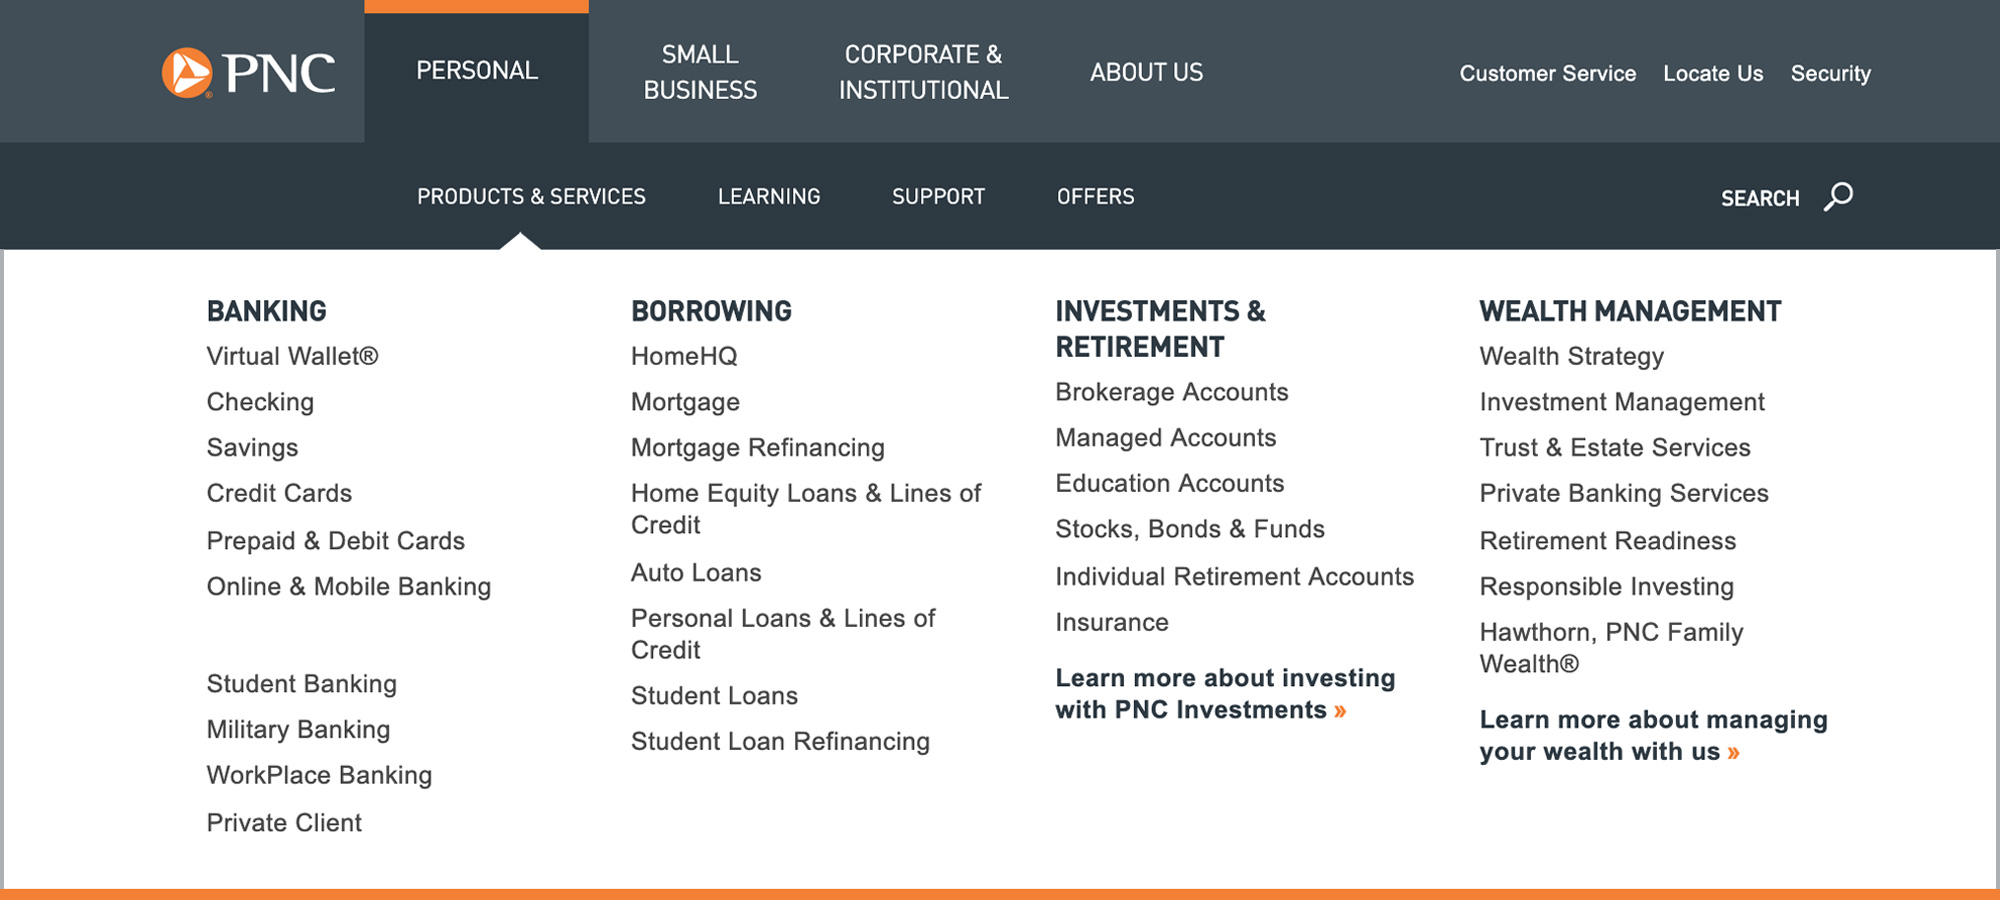
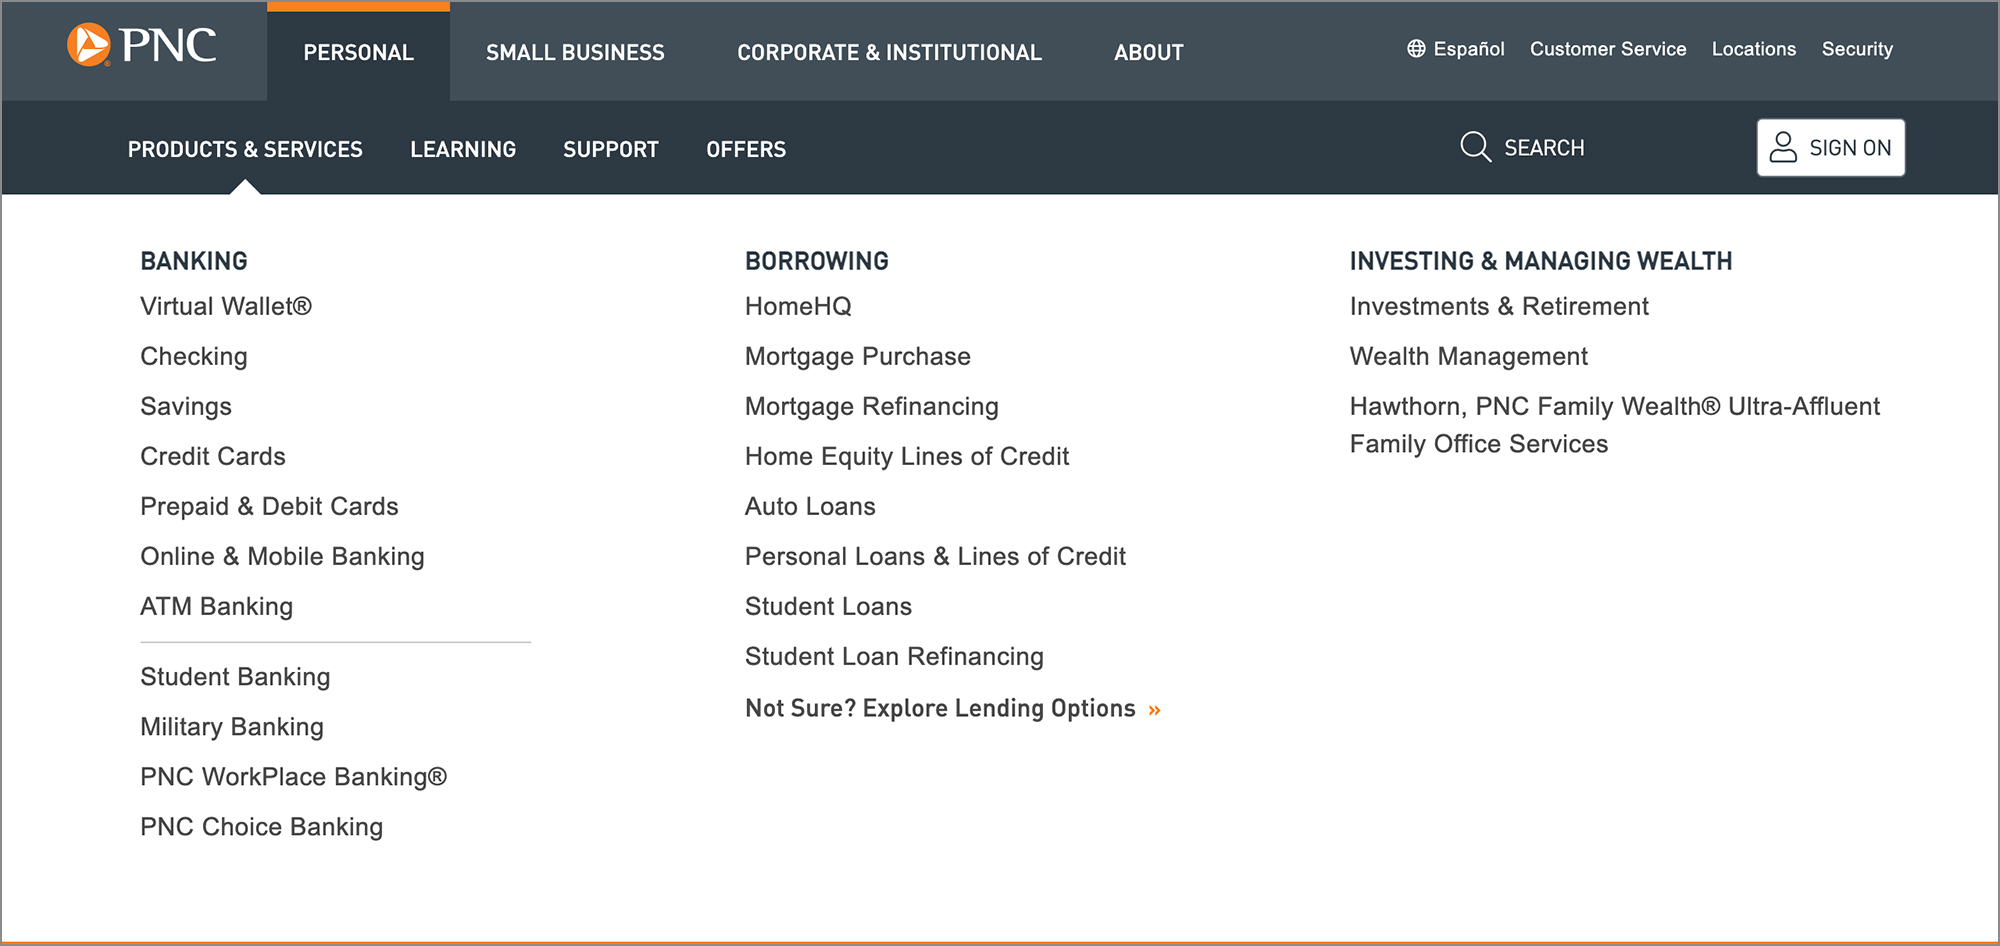
done

diff --git a/beta/pnc-nav-design.html b/beta/pnc-nav-design.html
@@ -255,10 +255,10 @@
 					</div><!-- /.row -->	
 
 					<div class="row inner">
-						<div class="col-sm-12 inner-top">
+						<div class="col-md-10 center-block inner-top-xs">
 							<figure>
 								<img src="assets/images/initial-menus.jpg" alt="">
-							   <p class="sm-caption">Show Smaller Sketches - Redo this image!!!!</p>
+							   <p class="sm-caption">Initial menu designs</p>
 
 							</figure>
 						</div><!-- /.col -->
@@ -276,11 +276,11 @@
 					</div><!-- /.row -->
 
 
-					<div class="row inner">
-							   <div class="col-md-12 center-block inner-top-xs">
+						<div class="row inner">
+							 <div class="col-md-10 col-md-offset-1">
 								<figure>
 								<img src="assets/images/navigation_box.jpg" alt="">
-								<p class="sm-caption">One of the first menu designs</p>
+								<p class="sm-caption">First dropdown menu used for testing</p>
 							</figure>
 						</div><!-- /.col -->
 					</div><!-- /.row -->	
@@ -300,7 +300,7 @@
 					<div class="row">
 						<div class="col-md-8 col-md-offset-2">
 								<h2>Usability Testing Results</h2>
-								<p>After agreeing on a rough design of the navigation, I built a prototype in Sketch and pulled it into InVision to make it interactive. The prototype was tested in different scenarios and tasks with users so I could make more informed design decisions..</p>
+								<p>After agreeing on a rough design of the navigation, I built a prototype in Sketch and pulled it into InVision to make it interactive. The prototype was tested in different scenarios and tasks with users so I could make more informed design decisions.</p>
 						</div><!-- /.col -->
 					</div><!-- /.row -->
 
@@ -311,7 +311,7 @@
 									<div class="price">
 										<span class="amount">70</span>
 									</div><!-- /.price -->
-									<p>people (non-customers) were asked to compare the usability of the previous menu with the latest design</p>
+									<p>people (non-customers) were asked to compare the usability of the previous menu with the prototype</p>
 								</header>
 								
 								
@@ -323,7 +323,7 @@
 									<div class="price">
 										<span class="amount">85%</span>
 									</div><!-- /.price -->
-									<p>participants found the new layout easier to scan for products and information faster</p>
+									<p>participants found the lighter layout easier to scan for products and information</p>
 								</header>
 								
 							</div><!-- /.plan -->
@@ -352,25 +352,25 @@
 			<div class="container">
 				<div class="row inner">
 						<div class="col-md-8 col-md-offset-2">
-							<h2>Iteration</h2>
-								<p>After the key takeaways from the Usability Test, I reworked a couple of the categories for the navigation. The example here focuses on the desktop experience because it is responsible for the majority of our visitors. Also, due to accessibility issues with our color orange, I had to rethink the links and colors. </p>
+							<h2>Iterations</h2>
+								<p>After the key takeaways from the Usability Test, I reworked a couple of the categories for the navigation. The example here focuses on the desktop experience because it is responsible for the majority of our visitors. Also, PNC's main brand color orange was not ADA compliant, I had to rethink our links and titles.</p>
 						</div><!-- /.col -->
 					</div><!-- /.row -->
 
 
 
 					<div class="row inner">
-						<div class="col-md-12 center-block inner-top-xs">
+						<div class="col-md-10 center-block inner-top-xs">
 								<figure>
 								<img src="assets/images/new-navigation-menu.jpg" alt="">
-								<p class="sm-caption">Finalizing of the navigation drop down menu</p>
+								<p class="sm-caption">Final navigation drop down menu</p>
 							</figure>
 						</div><!-- /.col -->
 					</div><!-- /.row -->	
 
 					<div class="row inner">
 						<div class="col-md-8 col-md-offset-2">
-							<h2>Final Product and Positive Results</h2>
+							<h2>Final Designs and Positive Results</h2>
 								<p>This was the biggest menu update since 2014. Once the new navigation was launched, the number of categories viewed per session increased, and gateways recieved 35% more traffic. The categories gained higher ranks over the past year and more sub-categories were available to be indexed by search engines. We have also had positive reaction and reviews from our business partners.</p>
 							</div>
 					 	</div>
@@ -379,14 +379,14 @@
 					<div class="row inner">
 						<div class="col-md-12 center-block inner-top-xs">
 							<figure>
-								<img src="assets/images/nav_file_animation.gif" alt="">
+								<img src="assets/images/final-navigation-menus.jpg" alt="">
 							</figure>
 						</div><!-- /.col -->
 					</div><!-- /.row -->
 
 					<div class="row inner">
 						<div class="col-md-8 col-md-offset-2">
-							<h2>Project Learnings</h2>
+							<h2>Key Learnings</h2>
 								<p>I am pleased with how the navigation turned out and how I was able to put a large amount of information into a fairly simple design. Here are a few takeaways from this project:</p>
 
 								<ul>

diff --git a/beta/assets/css/main.css b/beta/assets/css/main.css
@@ -3459,7 +3459,7 @@ blockquote:before {
 }
 .pricing .plan header {
 	text-align: center;
-	padding: 3px;
+	padding: 20px 30px 30px 30px;
 }
 
 .pricing .plan header p {
